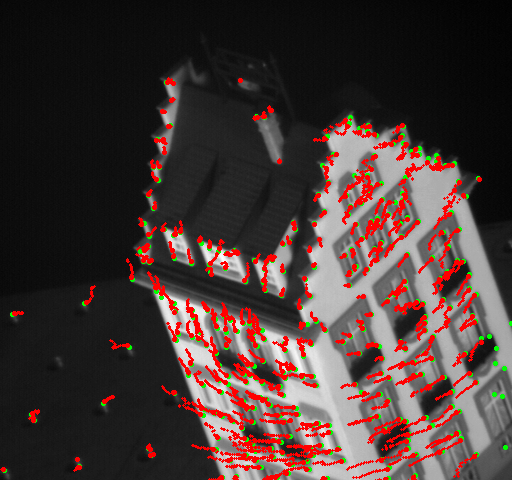
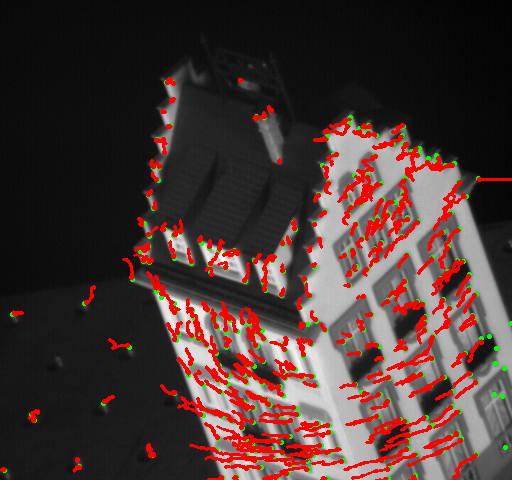
line instead of circles

diff --git a/lucas_kanade.py b/lucas_kanade.py
@@ -33,16 +33,18 @@ cv2.waitKey(0)
 #display sequence for 20 points
 for i in range(20):
   for j in range(track_x.shape[0]):
-    cv2.circle(img_corners,(int(round(track_y[j,i],0)),int(round(track_x[j,i],0))),1,(0,0,255),-1)
+    cv2.line(img_corners, (int(round(track_y[j,i],0)),int(round(track_x[j,i],0))) , (int(round(track_y[j,i+1],0)),int(round(track_x[j,i+1],0))) ,(0,0,255), 2)
+    # cv2.circle(img_corners,(int(round(track_y[j,i],0)),int(round(track_x[j,i],0))),1,(0,0,255),-1)
 
 cv2.imshow('Progress for 20 points',img_corners)
 cv2.imwrite('results/Progress_for_20_points.png',img_corners)
 cv2.waitKey(0)
 
 #display full sequence image points
-for i in range(51):
+for i in range(50):
   for j in range(track_x.shape[0]):
-    cv2.circle(img_corners,(int(round(track_y[j,i],0)),int(round(track_x[j,i],0))),1,(0,0,255),-1)
+    cv2.line(img_corners, (int(round(track_y[j,i],0)),int(round(track_x[j,i],0))) , (int(round(track_y[j,i+1],0)),int(round(track_x[j,i+1],0))) ,(0,0,255), 2)
+    # cv2.circle(img_corners,(int(round(track_y[j,i],0)),int(round(track_x[j,i],0))),1,(0,0,255),-1)
 
 cv2.imshow('Full sequence',img_corners)
 cv2.imwrite('results/Full_sequence.png',img_corners)
